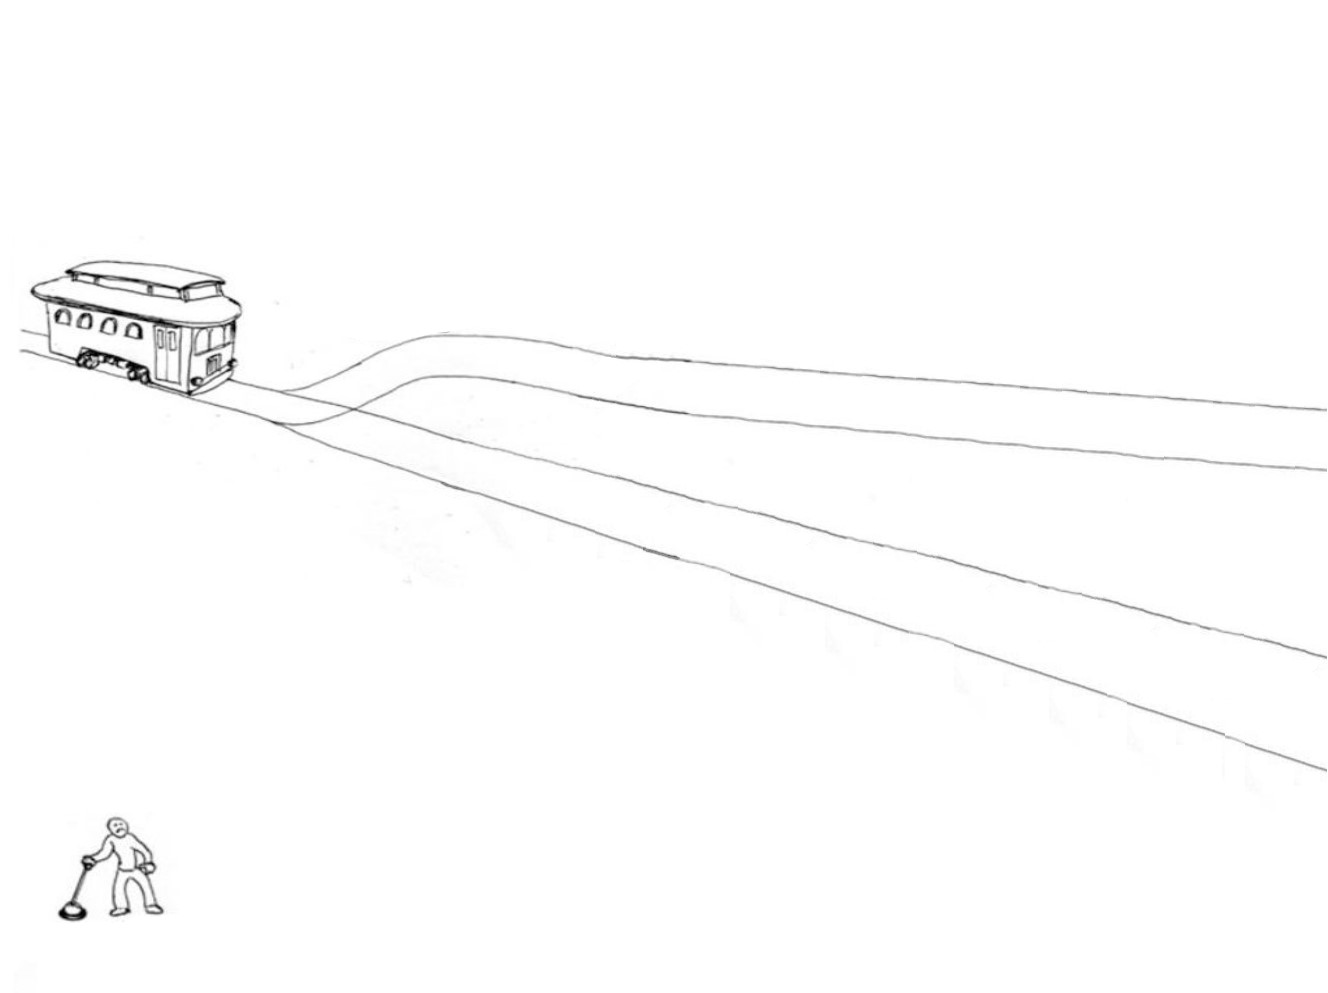
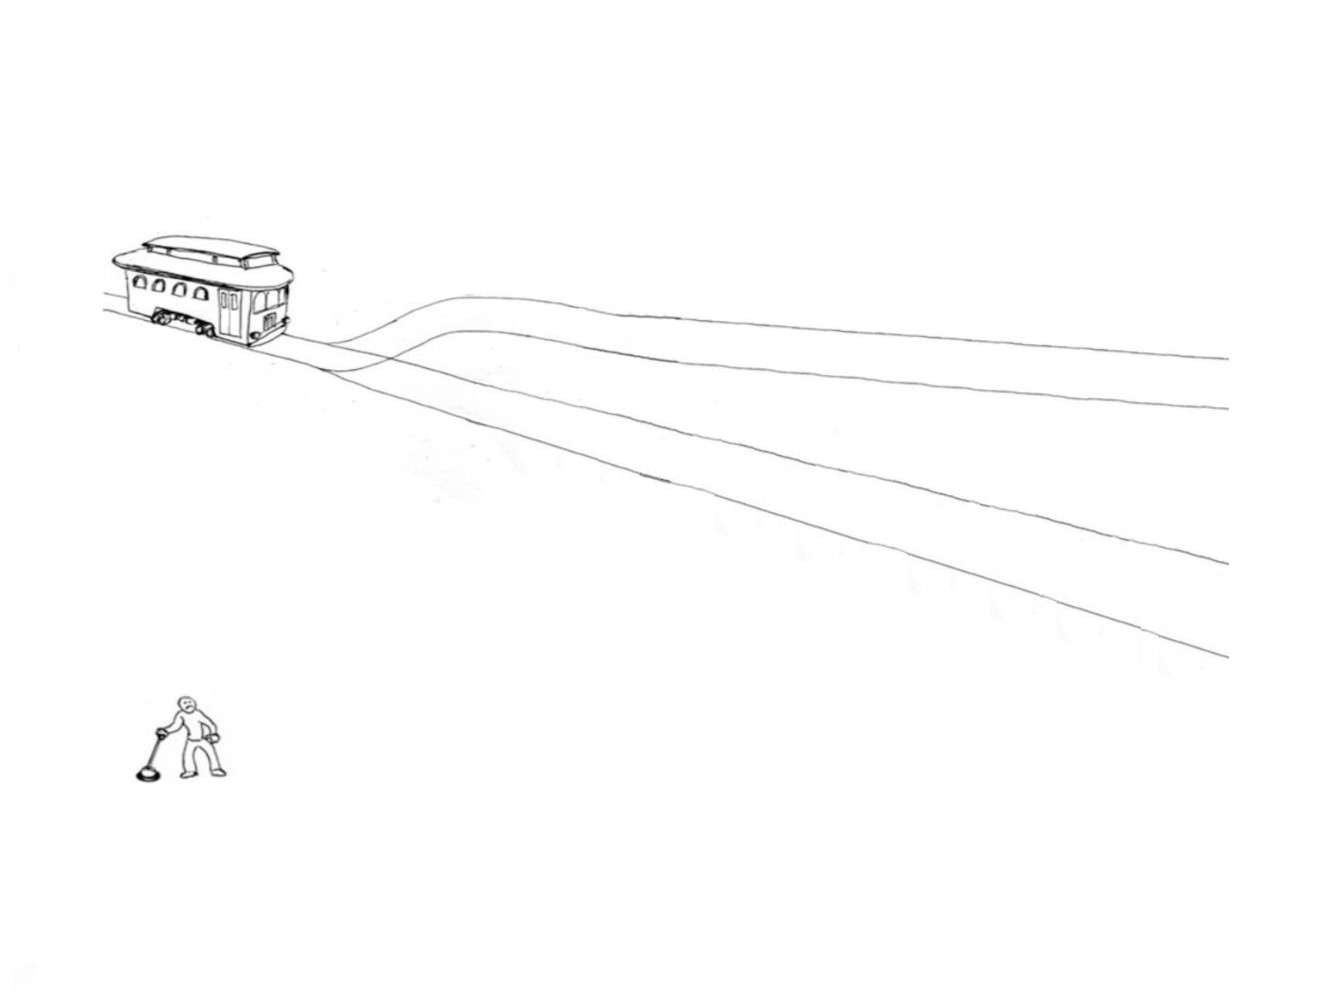
adj format 2

diff --git a/lectures/custom_theme.css b/lectures/custom_theme.css
@@ -59,7 +59,7 @@ a:hover {
 }
 
 .title-slide {
-  background-image: url(https://raw.githubusercontent.com/sdimakis/moral_psychology/master/lectures/images/hand.jfif);
+  background-image: url(https://raw.githubusercontent.com/sdimakis/moral_psychology/master/lectures/images/trolley_theme.jpg);
   background-size: 1000px;
   border: 10px solid black;;
 }
